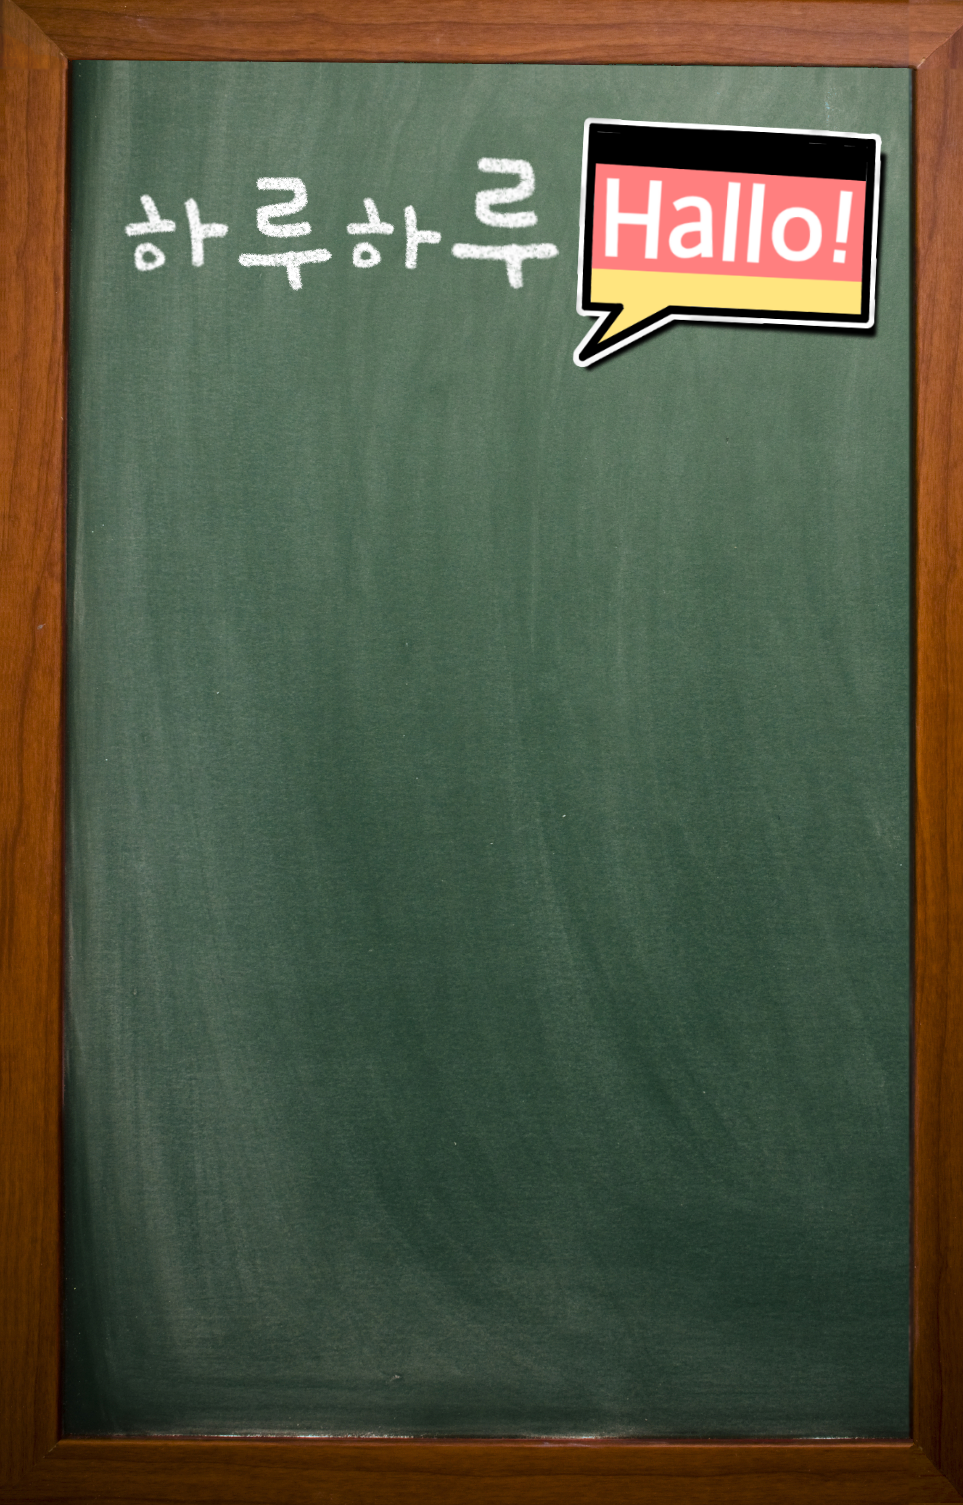
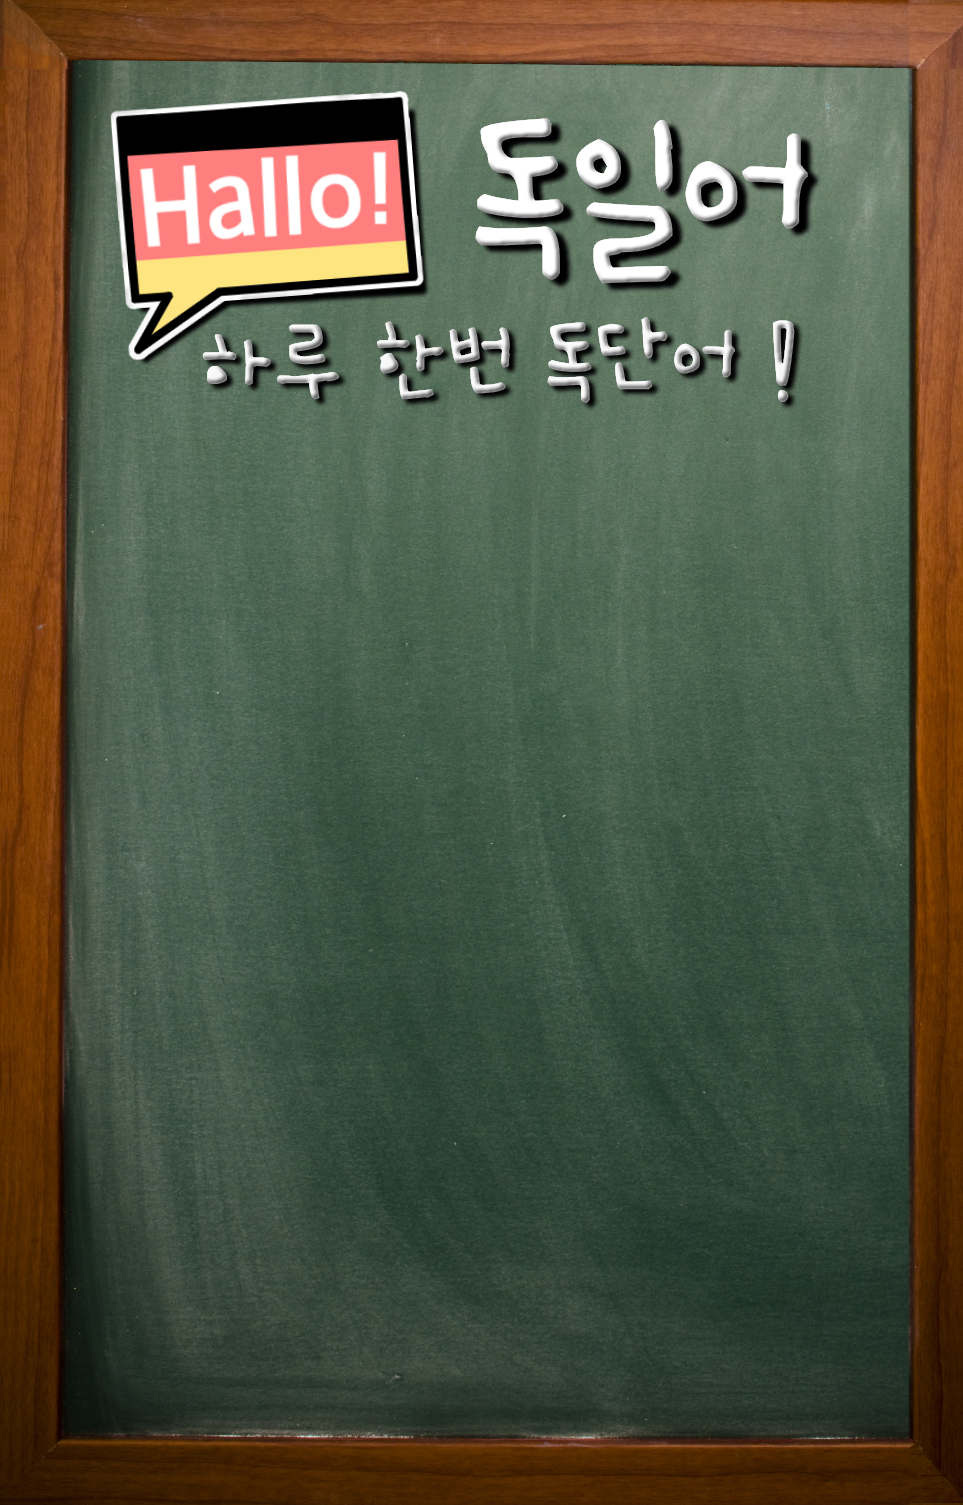
renaming, new home screen

Changed region(s): [[0.0935, 0.0625, 0.9346, 0.2811]]

diff --git a/main.py b/main.py
@@ -54,7 +54,7 @@ class PageTwo(Screen):
 
 class FinishedPage(Screen):
     back_image = StringProperty("data/pictures/mario_hand_schatten.png")
-    picture = StringProperty("data/pictures/homescreen.png")
+    picture = StringProperty("data/pictures/homescreen2.png")
     refresh_image = StringProperty("data/pictures/deck_refresh.png")
     back_image = StringProperty("data/pictures/mario_hand_schatten.png")
     
@@ -70,7 +70,7 @@ class FinishedPage(Screen):
 
 class VocabFrontPage(Screen):
     back_image = StringProperty("data/pictures/mario_hand_schatten.png")
-    picture = StringProperty("data/pictures/homescreen.png")
+    picture = StringProperty("data/pictures/homescreen2.png")
     start_image = StringProperty("data/pictures/start_pixel.png")
     deck = StringProperty("")
     level = StringProperty("")
@@ -81,7 +81,7 @@ class HomePage(Screen):
     deck_image = StringProperty("data/pictures/deck_hallo.png")
 
 class ChunkPage(Screen):
-    picture = StringProperty("data/pictures/homescreen.png")
+    picture = StringProperty("data/pictures/homescreen2.png")
     back_image = StringProperty("data/pictures/mario_hand_schatten.png")
     continue_image = StringProperty("data/pictures/weiter_pixel.png")
     deck = StringProperty("")
@@ -107,7 +107,7 @@ class AboutPage(Screen):
 
 class DataPage(Screen):
     back_image = StringProperty("data/pictures/mario_hand_schatten.png")
-    picture = StringProperty("data/pictures/homescreen.png")
+    picture = StringProperty("data/pictures/homescreen2.png")
     size_image = StringProperty("data/pictures/weiter_pixel.png")
     a1_image = StringProperty("data/pictures/A1.png")
     a2_image = StringProperty("data/pictures/A2.png")
@@ -142,7 +142,7 @@ class DataPage(Screen):
         animation = Animation(pos_hint = {'center_y': -0.3}, t='in_out_cubic', duration=0.15)
         animation.start(self.ids.size)
 
-class OneApp(App):
+class HalloApp(App):
     vocab1 = StringProperty()
     vocab2 = StringProperty()
     answer1 = StringProperty()
@@ -488,4 +488,4 @@ class OneApp(App):
         self.pagetwo.line_image = line
 
 if __name__ == '__main__':
-    OneApp().run()
+    HalloApp().run()
